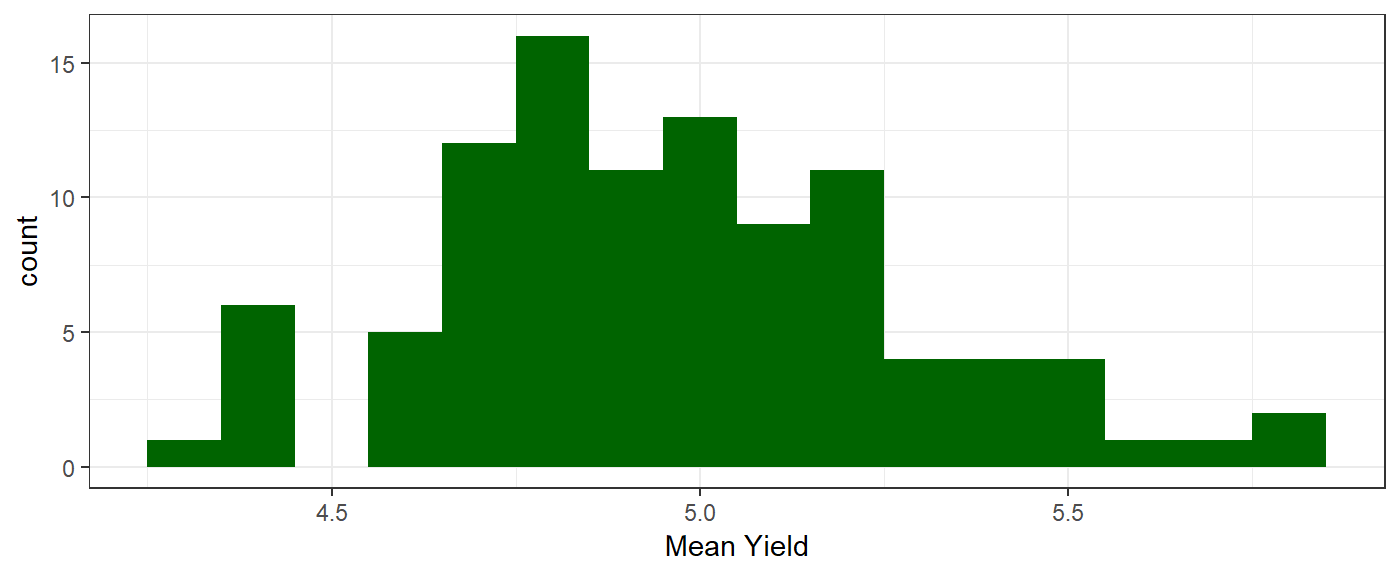
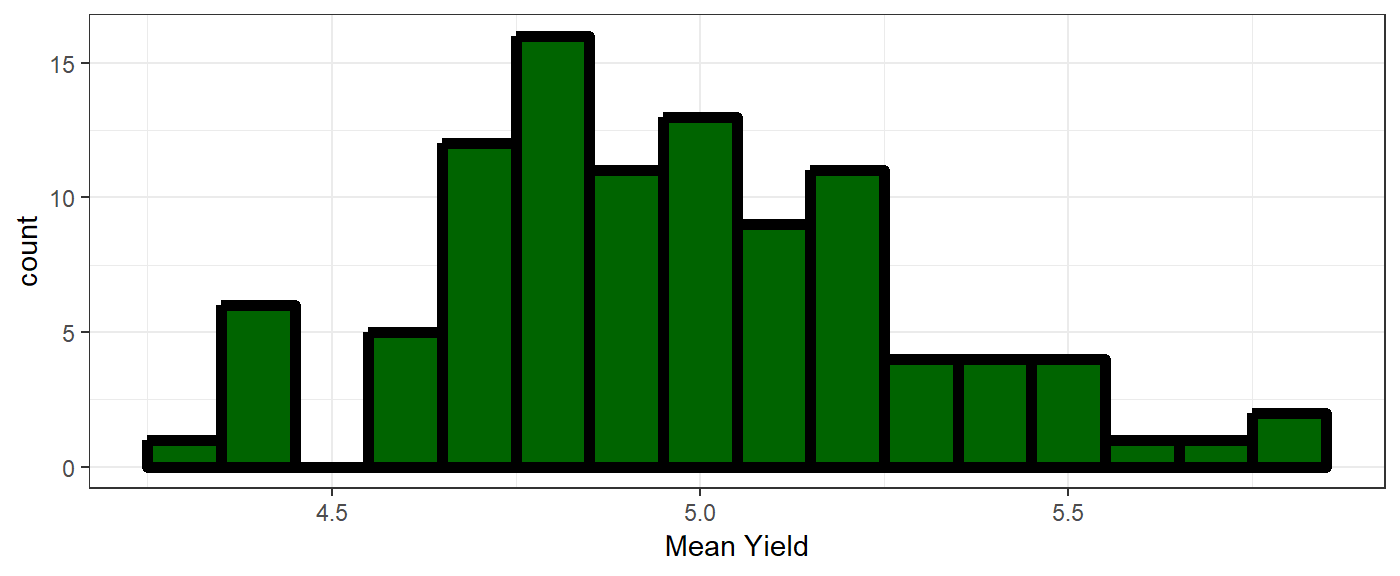
Update packagedown site with runShiny() function.

Changed region(s): [[0.0921, 0.0312, 0.9521, 0.8438]]

diff --git a/docs/reference/runShiny.html b/docs/reference/runShiny.html
@@ -6,7 +6,7 @@
 <meta http-equiv="X-UA-Compatible" content="IE=edge">
 <meta name="viewport" content="width=device-width, initial-scale=1.0">
 
-<title>Function reference • statsfoRstudents</title>
+<title>Launch the statsfoRstudents shiny app — runShiny • statsfoRstudents</title>
 
 <!-- jquery -->
 <script src="https://cdnjs.cloudflare.com/ajax/libs/jquery/3.3.1/jquery.min.js" integrity="sha256-FgpCb/KJQlLNfOu91ta32o/NMZxltwRo8QtmkMRdAu8=" crossorigin="anonymous"></script>
@@ -30,7 +30,10 @@
 
 
 
-<meta property="og:title" content="Function reference" />
+<meta property="og:title" content="Launch the statsfoRstudents shiny app — runShiny" />
+
+<meta property="og:description" content="Launches the statsfoRstudents shiny app in the active R session" />
+<meta name="twitter:card" content="summary" />
 
 
 
@@ -47,7 +50,7 @@
   </head>
 
   <body>
-    <div class="container template-reference-index">
+    <div class="container template-reference-topic">
       <header>
       <div class="navbar navbar-default navbar-fixed-top" role="navigation">
   <div class="container">
@@ -106,120 +109,42 @@
       </header>
 
 <div class="row">
-  <div class="contents col-md-9">
+  <div class="col-md-9 contents">
     <div class="page-header">
-      <h1>Reference</h1>
+    <h1>Launch the statsfoRstudents shiny app</h1>
+    <small class="dont-index">Source: <a href='https://github.com/jzemmels/finalProject/blob/master/R/runShiny.R'><code>R/runShiny.R</code></a></small>
+    <div class="hidden name"><code>runShiny.Rd</code></div>
     </div>
 
-    <table class="ref-index">
+    <div class="ref-description">
+    
+    <p>Launches the statsfoRstudents shiny app in the active R session</p>
+    
+    </div>
 
-    <colgroup>
-      
-      <col class="alias" />
-      <col class="title" />
-    </colgroup>
+    <pre class="usage"><span class='fu'>runShiny</span>()</pre>
+        
+    <h2 class="hasAnchor" id="source"><a class="anchor" href="#source"></a>Source</h2>
 
-    <tbody>
-      <tr>
-        <th colspan="2">
-          <h2 id="section-all-functions" class="hasAnchor"><a href="#section-all-functions" class="anchor"></a>All functions</h2>
-          <p class="section-desc"></p>
-        </th>
-      </tr>
-      <tr>
-        
-        <td>
-          <p><code><a href="bootstrapProcess.html">bootstrapProcess()</a></code> </p>
-        </td>
-        <td><p>Show animated/still bootstapping process</p></td>
-      </tr><tr>
-        
-        <td>
-          <p><code><a href="bootstrapSample.html">bootstrapSample()</a></code> </p>
-        </td>
-        <td><p>Generate bootstrap samples</p></td>
-      </tr><tr>
-        
-        <td>
-          <p><code><a href="hypTest_prompt.html">hypTest_prompt()</a></code> </p>
-        </td>
-        <td><p>Returns a randomly selected hypothesis test prompt</p></td>
-      </tr><tr>
-        
-        <td>
-          <p><code><a href="ploterrors.html">ploterrors()</a></code> </p>
-        </td>
-        <td><p>Plot Type I and Type II Error</p></td>
-      </tr><tr>
-        
-        <td>
-          <p><code><a href="plotModal.html">plotModal()</a></code> </p>
-        </td>
-        <td><p>Plot a random distribution with differing modality</p></td>
-      </tr><tr>
-        
-        <td>
-          <p><code><a href="plotNormal.html">plotNormal()</a></code> </p>
-        </td>
-        <td><p>Plot a normal distribution</p></td>
-      </tr><tr>
-        
-        <td>
-          <p><code><a href="plotOutlier.html">plotOutlier()</a></code> </p>
-        </td>
-        <td><p>Plot a random distribution with differing outliers</p></td>
-      </tr><tr>
-        
-        <td>
-          <p><code><a href="plotShape.html">plotShape()</a></code> </p>
-        </td>
-        <td><p>Plot a random distribution with differing shape</p></td>
-      </tr><tr>
-        
-        <td>
-          <p><code><a href="randomSample.html">randomSample()</a></code> </p>
-        </td>
-        <td><p>Generate an arbitrary number of random samples from a normal distribution</p></td>
-      </tr><tr>
-        
-        <td>
-          <p><code><a href="randomSample_histogram.html">randomSample_histogram()</a></code> </p>
-        </td>
-        <td><p>Generate a histogram of a random sample</p></td>
-      </tr><tr>
-        
-        <td>
-          <p><code><a href="runShiny.html">runShiny()</a></code> </p>
-        </td>
-        <td><p>Launch the statsfoRstudents shiny app</p></td>
-      </tr><tr>
-        
-        <td>
-          <p><code><a href="sampleData_means.html">sampleData_means</a></code> </p>
-        </td>
-        <td><p>Sample means of 100 normal random samples</p></td>
-      </tr><tr>
-        
-        <td>
-          <p><code><a href="sampleMeans_histogram.html">sampleMeans_histogram()</a></code> </p>
-        </td>
-        <td><p>Generate a histogram of sample means</p></td>
-      </tr><tr>
-        
-        <td>
-          <p><code><a href="updateSampleMeans.html">updateSampleMeans()</a></code> </p>
-        </td>
-        <td><p>Create/update a data frame of sample means</p></td>
-      </tr>
-    </tbody>
-    </table>
+    <p>https://deanattali.com/2015/04/21/r-package-shiny-app/</p>
+    
+
+    <h2 class="hasAnchor" id="examples"><a class="anchor" href="#examples"></a>Examples</h2>
+    <pre class="examples"><span class='co'># NOT RUN {</span>
+<span class='fu'>runShiny</span>()
+<span class='co'># }</span></pre>
   </div>
-
   <div class="col-md-3 hidden-xs hidden-sm" id="sidebar">
     <h2>Contents</h2>
     <ul class="nav nav-pills nav-stacked">
-      <li><a href="#section-all-functions">All functions</a></li>
+      
+      <li><a href="#source">Source</a></li>
+      
+      <li><a href="#examples">Examples</a></li>
     </ul>
+
+    <h2>Author</h2>
+    <p>Joe Zemmels</p>
   </div>
 </div>
 

diff --git a/docs/index.html b/docs/index.html
@@ -87,7 +87,7 @@
 
 <div class="sourceCode"><pre class="sourceCode r"><code class="sourceCode r">devtools<span class="op">::</span><span class="kw"><a href="https://www.rdocumentation.org/packages/devtools/topics/reexports">install_github</a></span>(<span class="st">"https://github.com/jzemmels/statsfoRstudents"</span>)</code></pre></div>
 <p>The function of this package is mainly in-service to the shiny app that accompanies it. To run this shiny app, run the following code:</p>
-<div class="sourceCode"><pre class="sourceCode r"><code class="sourceCode r">shiny<span class="op">::</span><span class="kw"><a href="https://www.rdocumentation.org/packages/shiny/topics/runApp">runApp</a></span>(<span class="dt">appDir =</span> <span class="st">"statsfoRstudents/inst/shiny"</span>)</code></pre></div>
+<div class="sourceCode"><pre class="sourceCode r"><code class="sourceCode r">statsfoRstudents<span class="op">::</span><span class="kw"><a href="https://www.rdocumentation.org/packages/statsfoRstudents/topics/runShiny">runShiny</a></span>()</code></pre></div>
 <p>Gulzina and Eryn have functions in the R folder that haven’t yet been implemented into a Shiny app, so you can give them feedback based on those.</p>
 <div id="todo" class="section level4">
 <h4 class="hasAnchor">
@@ -98,7 +98,6 @@
 <li>vignette</li>
 <li>(maybe) add “Help” button to each tab of the shiny app that links to the correct section of the vignette (should just be a renderUI)</li>
 <li>(Joe) add some “questions to think about” to the Normal Plot and Sampling Distribution of Sample Means</li>
-<li>(Joe) add an outline to the histogram bars in randomSample_histogram() and sampleMeans_histogram() functions</li>
 </ul>
 </div>
 </div>

diff --git a/docs/articles/statsfordummies.html b/docs/articles/statsfordummies.html
@@ -80,7 +80,7 @@
       <h1>statsfoRstudents</h1>
                         <h4 class="author">Eryn Blagg, Gulzina Kuttubekova, Charlotte Roiger, Joe Zemmels</h4>
             
-            <h4 class="date">2019-04-29</h4>
+            <h4 class="date">2019-05-01</h4>
       
       <small class="dont-index">Source: <a href="https://github.com/jzemmels/finalProject/blob/master/vignettes/statsfordummies.Rmd"><code>vignettes/statsfordummies.Rmd</code></a></small>
       <div class="hidden name"><code>statsfordummies.Rmd</code></div>
